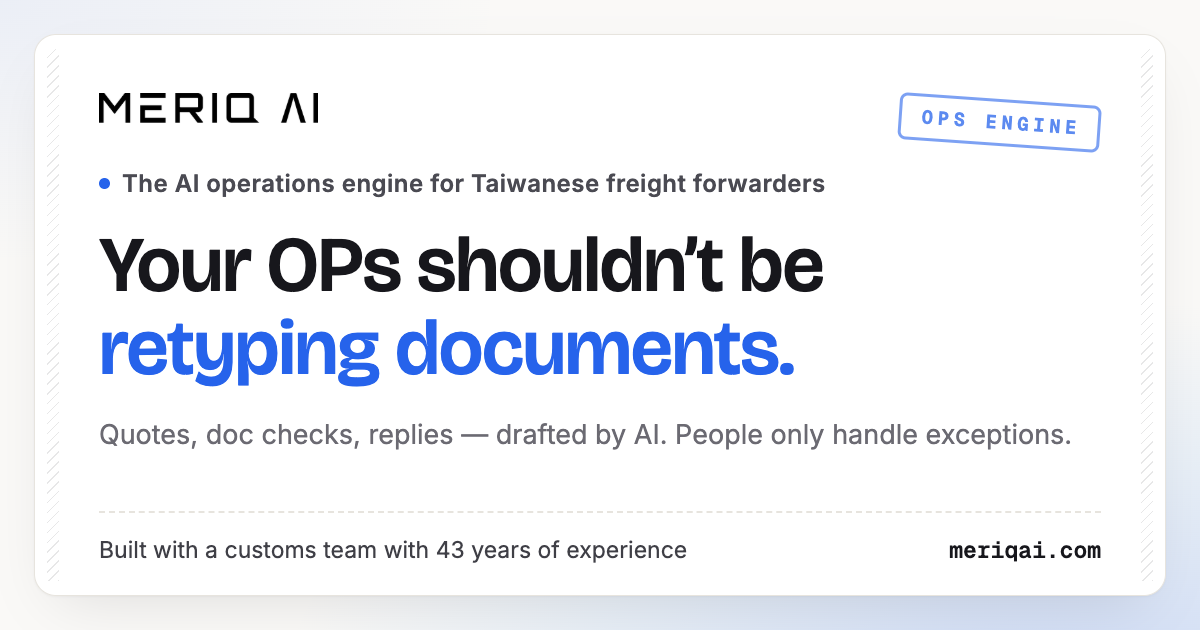
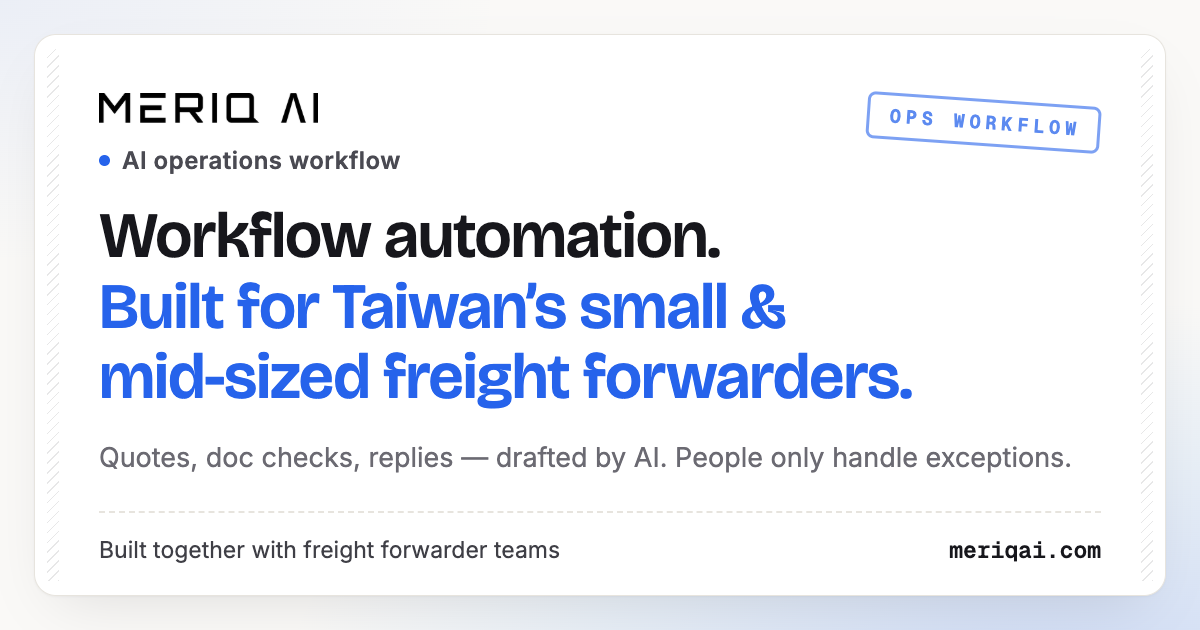
copy: ICP → 台灣中小型 freight forwarder; engine → workflow (AI 作業工作流)
Sweeps eyebrow, meta titles, footer tagline, proof body, JSON-LD
Service name, llms.txt, and CLAUDE.md. OG images regenerated with the
new three-line headline (工作流自動化。專為台灣中小型 freight forwarder
打造。/ Built for Taiwan's small & mid-sized freight forwarders),
Ops Workflow stamp, and the freight-forwarder-teams trust line.

Changed region(s): [[0.0617, 0.2413, 0.8942, 0.754], [0.1233, 0.8444, 0.5858, 0.9048], [0.7092, 0.1206, 0.925, 0.2413]]

diff --git a/scripts/og-template.html b/scripts/og-template.html
@@ -142,16 +142,16 @@
   #og-zh h1 {
     font-family: "Noto Sans TC", sans-serif;
     font-weight: 900;
-    font-size: 94px;
-    line-height: 1.18;
+    font-size: 68px;
+    line-height: 1.16;
     letter-spacing: 0.005em;
   }
   #og-zh .eyebrow, #og-zh .sub, #og-zh .bottom { font-family: "Noto Sans TC", "Inter", sans-serif; }
   #og-en h1 {
     font-family: "Bricolage Grotesque", sans-serif;
     font-weight: 600;
-    font-size: 78px;
-    line-height: 1.06;
+    font-size: 64px;
+    line-height: 1.1;
     letter-spacing: -0.015em;
   }
 </style>
@@ -164,15 +164,15 @@
     <div class="hatch right"></div>
     <div class="top">
       <img class="wordmark" src="../public/meriq-wordmark.png" alt="MERIQ AI" />
-      <span class="stamp">Ops Engine</span>
+      <span class="stamp">Ops Workflow</span>
     </div>
     <div class="mid">
-      <p class="eyebrow"><span class="dot"></span>台灣中小型 forwarder 的 AI 作業引擎</p>
-      <h1>讓 OP<br /><span class="accent">不再繕打文件</span>。</h1>
+      <p class="eyebrow"><span class="dot"></span>AI 作業工作流</p>
+      <h1>工作流自動化。<br /><span class="accent">專為台灣中小型<br />freight forwarder 打造。</span></h1>
       <p class="sub">報價單、文件核對、中英文回覆自動擬好——人只看例外。</p>
     </div>
     <div class="bottom">
-      <span>與 43 年資歷的報關團隊共同打造</span>
+      <span>與 freight forwarder 團隊共同打造</span>
       <span class="domain">meriqai.com</span>
     </div>
   </div>
@@ -184,15 +184,15 @@
     <div class="hatch right"></div>
     <div class="top">
       <img class="wordmark" src="../public/meriq-wordmark.png" alt="MERIQ AI" />
-      <span class="stamp">Ops Engine</span>
+      <span class="stamp">Ops Workflow</span>
     </div>
     <div class="mid">
-      <p class="eyebrow"><span class="dot"></span>The AI operations engine for Taiwanese freight forwarders</p>
-      <h1>Your OPs shouldn&rsquo;t be<br /><span class="accent">retyping documents.</span></h1>
+      <p class="eyebrow"><span class="dot"></span>AI operations workflow</p>
+      <h1>Workflow automation.<br /><span class="accent">Built for Taiwan&rsquo;s small &amp;<br />mid-sized freight forwarders.</span></h1>
       <p class="sub">Quotes, doc checks, replies — drafted by AI. People only handle exceptions.</p>
     </div>
     <div class="bottom">
-      <span>Built with a customs team with 43 years of experience</span>
+      <span>Built together with freight forwarder teams</span>
       <span class="domain">meriqai.com</span>
     </div>
   </div>

diff --git a/app/[lang]/page.tsx b/app/[lang]/page.tsx
@@ -62,7 +62,7 @@ export default async function Page({
       },
       {
         "@type": "Service",
-        name: "Meriq Operations Engine",
+        name: "Meriq Operations Workflow",
         serviceType:
           "Freight forwarding operations automation: quotation drafting, S/O preparation, cross-document checking, bilingual reply drafting",
         provider: { "@id": `${SITE_URL}/#organization` },

diff --git a/CLAUDE.md b/CLAUDE.md
@@ -21,7 +21,7 @@ This is **Next.js 16** with **React 19** — a version with breaking changes fro
 
 ## What this site is
 
-The Meriq marketing site: **AI 作業引擎 for small/mid-sized Taiwanese freight forwarders (5–50 人)** — reads 詢價信 and shipping docs, drafts 報價單, fills S/O, cross-checks CI/PL/提單/報單, prepares bilingual replies; people only handle exceptions; nothing to replace. Built with a 43-year 報關 team. Bilingual (zh-TW default / en), deployed at `meriqai.com`. Surfaces: the landing page and the demo-booking page at `/[lang]/demo` (`/export-plan` and `/tariff` 301 to their successors). An MDX blog exists at `/[lang]/blog` but is intentionally unlisted (no nav link, not in the sitemap).
+The Meriq marketing site: **AI 作業工作流 for small/mid-sized Taiwanese freight forwarders (5–50 人)** (ICP wording everywhere: 台灣中小型 freight forwarder; en "AI operations workflow") — reads 詢價信 and shipping docs, drafts 報價單, fills S/O, cross-checks CI/PL/提單/報單, prepares bilingual replies; people only handle exceptions; nothing to replace. Built with a 43-year 報關 team. Bilingual (zh-TW default / en), deployed at `meriqai.com`. Surfaces: the landing page and the demo-booking page at `/[lang]/demo` (`/export-plan` and `/tariff` 301 to their successors). An MDX blog exists at `/[lang]/blog` but is intentionally unlisted (no nav link, not in the sitemap).
 
 Positioning notes: demand side = forwarders (primary CTA 預約 20 分鐘示範 / Book a 20-minute demo, run on the prospect's own documents); supply side = 報關行/carriers (quiet "成為夥伴" link in the footer only — deliberately secondary). Meriq is not a licensed forwarder and does not file customs entries. Tone rules: no 賦能/顛覆/革命; every claim hangs on a concrete document or action (繕打, 核對, pre-alert); trade jargon stays English (S/O, pre-alert, HB/L, CI/PL). Sections in order: hero / 痛點 3-card / 三步 how-it-works / 快準不加人 values / why-us / Design-Partner proof (testimonial cards gated by `proof.testimonialsEnabled` until real numbers exist) / FAQ / final CTA.
 
